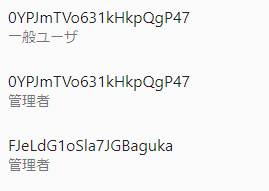
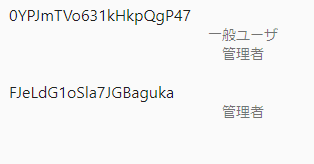
#8 rolesがグルーピングできた

diff --git a/lib/firestore_ref/NestStreamBuilderRoles.dart b/lib/firestore_ref/NestStreamBuilderRoles.dart
@@ -14,33 +14,37 @@ class NestStreamBuilderRoles extends HookWidget {
             return Text("Loading");
 
           // List<DocumentReference>
-          List<UserRoles> rolesList = snapshot1.data.docs
+          List<UserRoles> userRolesList = snapshot1.data.docs
               .map((docSnap) => UserRoles(docSnap.id, docSnap.data()['roles']))
               .toList();
-          List<Widget> widgets = [];
-          for (var roles in rolesList) {
-            {
-              for (var role in roles.roles) {
-                print(role);
-                widgets.add(StreamBuilder(
-                  stream: (role as DocumentReference).snapshots(),
-                  builder: (context, snap2) {
-                    if (snap2.hasError) return Text('snap2 error');
-                    if (snap2.connectionState == ConnectionState.waiting)
-                      return Text("snap2 Loading");
 
-                    return ListTile(
-                      title: Text(roles.id),
-                      subtitle: Text(snap2.data['name']),
-                    );
-                  },
-                ));
-              }
+          List<Widget> listTiles = [];
+          for (var userRoles in userRolesList) {
+            // 1つのpublicは複数のroleがある
+            List<Widget> nameWidgets = [];
+            for (var role in userRoles.roles) {
+              nameWidgets.add(StreamBuilder(
+                stream: (role as DocumentReference).snapshots(),
+                builder: (context, snap2) {
+                  if (snap2.hasError) return Text('snap2 error');
+                  if (snap2.connectionState == ConnectionState.waiting)
+                    return Text("snap2 Loading");
+
+                  return Text(snap2.data['name']);
+                },
+              ));
             }
+            Widget namesWidget = Column(
+              children: nameWidgets,
+            );
+            listTiles.add(ListTile(
+              title: Text(userRoles.id),
+              subtitle: namesWidget,
+            ));
           }
 
           return ListView(
-            children: widgets,
+            children: listTiles,
           );
         });
   }
